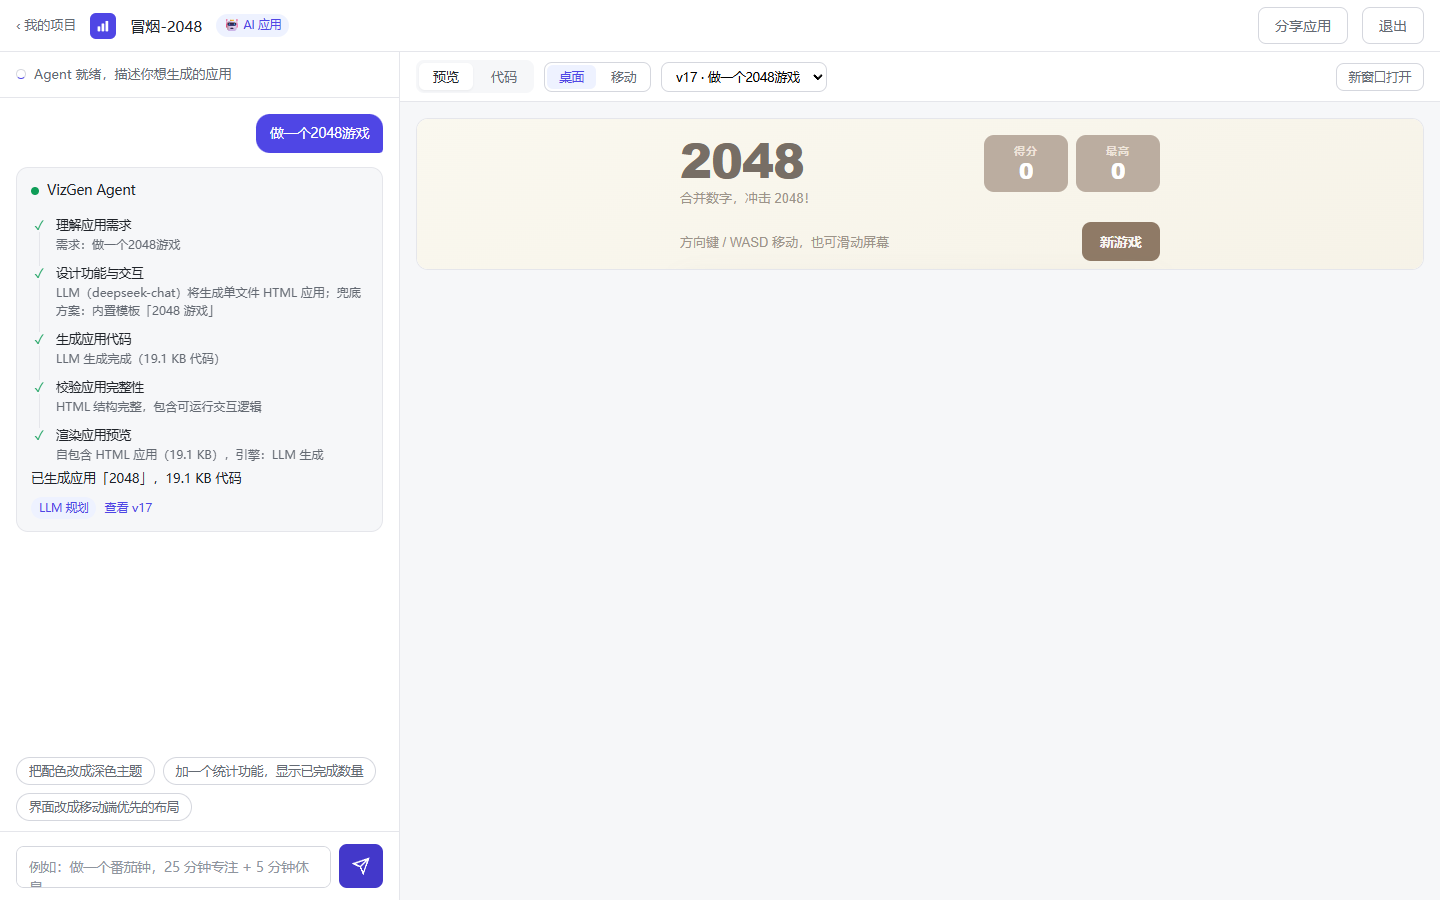
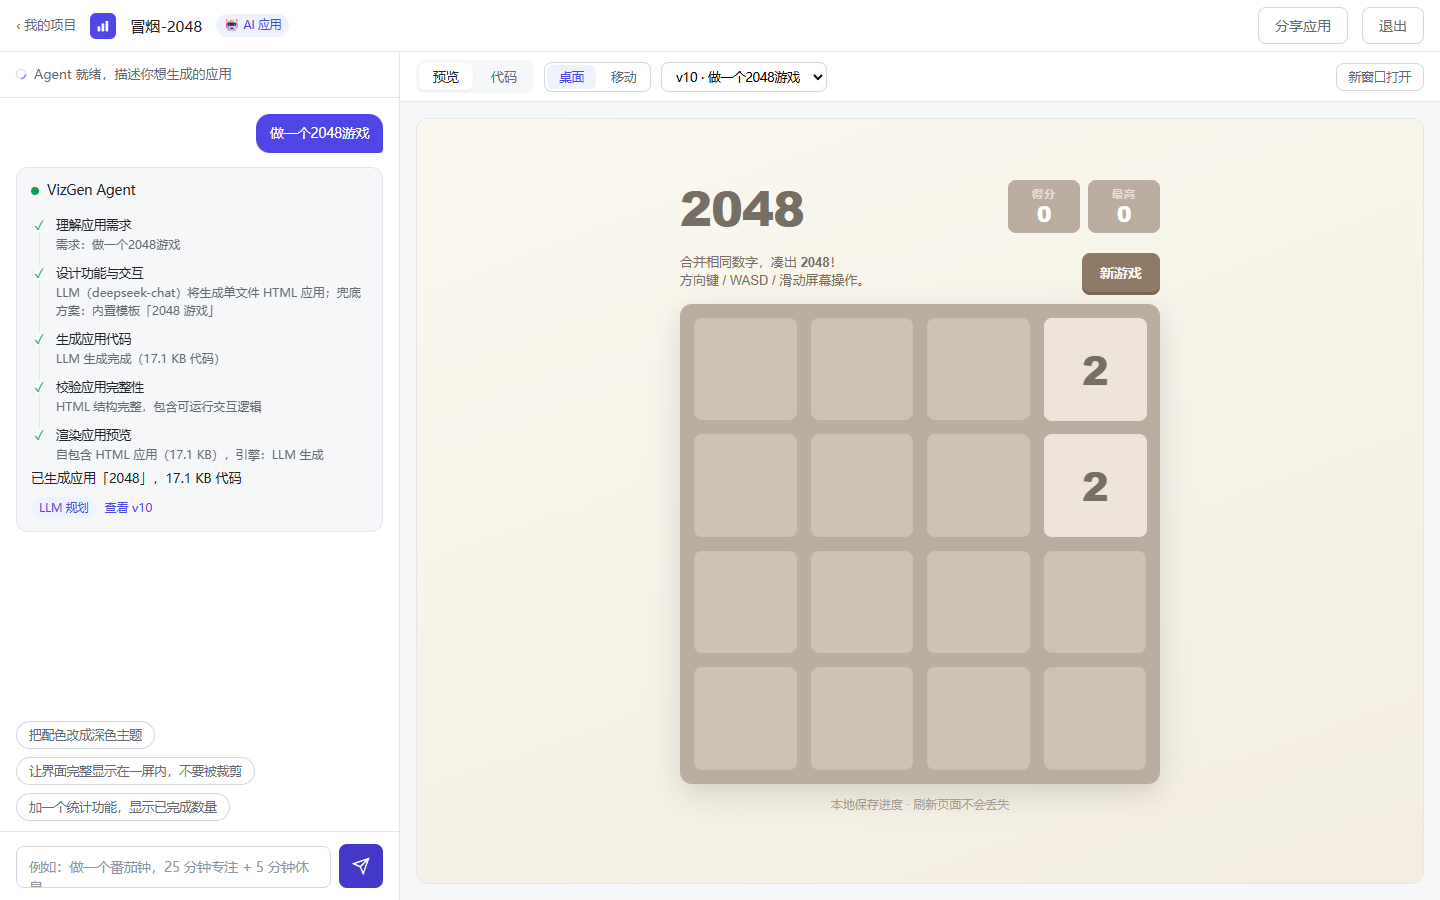
fix(preview): iframe height collapsed to ~150px, apps got cropped
- #pv-content was unstyled and outside the flex chain, so the preview
  iframe fell back to its default replaced-element height; apps taller
  than that appeared cropped with dead whitespace below
- Wire #pv-content into the flex column and give the frame wrap a
  min-height of 600px so generated apps get a realistic viewport
- Reset inner scroll to top on iframe load
- Harden app prompt: viewport-fit rules (scrollable page, no top-crop
  centering, adaptive game boards)
- Suggestion chip: one-click fix prompt for cropped layouts

Changed region(s): [[0.4375, 0.1244, 0.8438, 0.9022], [0.0, 0.8089, 0.25, 0.9022]]

diff --git a/public/css/style.css b/public/css/style.css
@@ -125,6 +125,7 @@ textarea.csv-box{width:100%;height:110px;padding:10px;border:1px solid var(--bor
 
 /* 预览区 */
 .preview{flex:1;display:flex;flex-direction:column;min-width:0;background:var(--bg)}
+#pv-content{flex:1;display:flex;flex-direction:column;min-height:0}
 .pv-toolbar{display:flex;align-items:center;gap:10px;padding:8px 16px;background:var(--surface);border-bottom:1px solid var(--border);flex-shrink:0;flex-wrap:wrap}
 .pv-toolbar .tabs{display:flex;gap:4px;background:var(--bg);padding:3px;border-radius:8px}
 .pv-toolbar .tabs button{padding:5px 14px;border-radius:6px;font-size:13px;color:var(--text-2)}
@@ -134,7 +135,7 @@ textarea.csv-box{width:100%;height:110px;padding:10px;border:1px solid var(--bor
 .seg button.active{background:var(--primary-soft);color:var(--primary)}
 .pv-toolbar select{padding:5px 10px;border:1px solid var(--border-strong);border-radius:8px;font-size:12.5px;background:var(--surface)}
 .pv-stage{flex:1;overflow:auto;display:flex;justify-content:center;padding:16px}
-.pv-frame-wrap{width:100%;height:100%;transition:max-width .25s}
+.pv-frame-wrap{width:100%;height:100%;min-height:600px;transition:max-width .25s}
 .pv-frame-wrap.mobile{max-width:400px}
 .pv-frame{width:100%;height:100%;border:1px solid var(--border);border-radius:var(--radius);background:#fff}
 .pv-empty{flex:1;display:flex;flex-direction:column;align-items:center;justify-content:center;color:var(--text-3);gap:10px}

diff --git a/public/js/app.js b/public/js/app.js
@@ -284,7 +284,9 @@
       c.innerHTML = '<div class="pv-stage"><div class="pv-frame-wrap ' + (state.device === 'mobile' ? 'mobile' : '') + '"><iframe class="pv-frame" id="pv-frame"></iframe></div></div>';
       try {
         const html = await API.previewText(state.versionId);
-        document.getElementById('pv-frame').srcdoc = html;
+        const f = document.getElementById('pv-frame');
+        f.onload = () => { try { f.contentWindow.scrollTo(0, 0); } catch (e) { /* 跨域时忽略 */ } };
+        f.srcdoc = html;
       } catch (e) { toast('预览加载失败：' + e.message); }
     } else if (state.tab === 'code') {
       c.innerHTML = '<div class="code-view"><pre>加载中…</pre></div>';
@@ -377,7 +379,7 @@
     if (isApp) {
       items = !state.project.versions.length
         ? ['做一个计算器', '做一个 2048 游戏', '做一个番茄钟，25分钟专注+5分钟休息']
-        : ['把配色改成深色主题', '加一个统计功能，显示已完成数量', '界面改成移动端优先的布局'];
+        : ['把配色改成深色主题', '让界面完整显示在一屏内，不要被裁剪', '加一个统计功能，显示已完成数量'];
     } else if (ready && !state.project.versions.length) {
       items = ['生成一个数据看板', '重点看销售额趋势和区域对比', '加一个占比分析饼图'];
     } else if (ready) {

diff --git a/lib/llm.js b/lib/llm.js
@@ -72,7 +72,11 @@ const APP_SYSTEM_PROMPT = `你是 VizGen 平台的全栈应用生成专家。用
 3. 使用原生 HTML/CSS/JS，不依赖任何框架。
 4. 界面美观现代：居中布局、柔和配色、圆角卡片、适当阴影与过渡动画，适配桌面与手机。
 5. 交互完整可用：按钮、输入、状态变化都要真实生效；用 localStorage 持久化数据（若应用有状态）。
-6. 代码健壮：边界情况（空输入、极端值）要处理，不出现 JS 报错。`;
+6. 代码健壮：边界情况（空输入、极端值）要处理，不出现 JS 报错。
+7. 视口适配（重要）：应用会运行在高度约 600px 的预览窗口中。
+   - 页面整体布局用 min-height:100vh 并允许滚动，禁止在 body 或最外层容器上使用 overflow:hidden 或固定 height 导致内容被裁剪。
+   - 禁止用"固定高度容器 + flex 居中"承载可能超出一屏的内容（内容比容器高时顶部会被裁掉且无法滚动到）；安全做法是给内容元素设 margin:auto 或使用 place-items:safe center。
+   - 游戏棋盘/主区域尺寸要自适应视口（优先使用 min(视口宽高相关单位) 缩放），标题、按钮、说明等所有 UI 在小窗口下都完整可见；确实放不下时必须保证整页可滚动查看。`;
 
 function buildAppCreateMessages(idea) {
   return [
